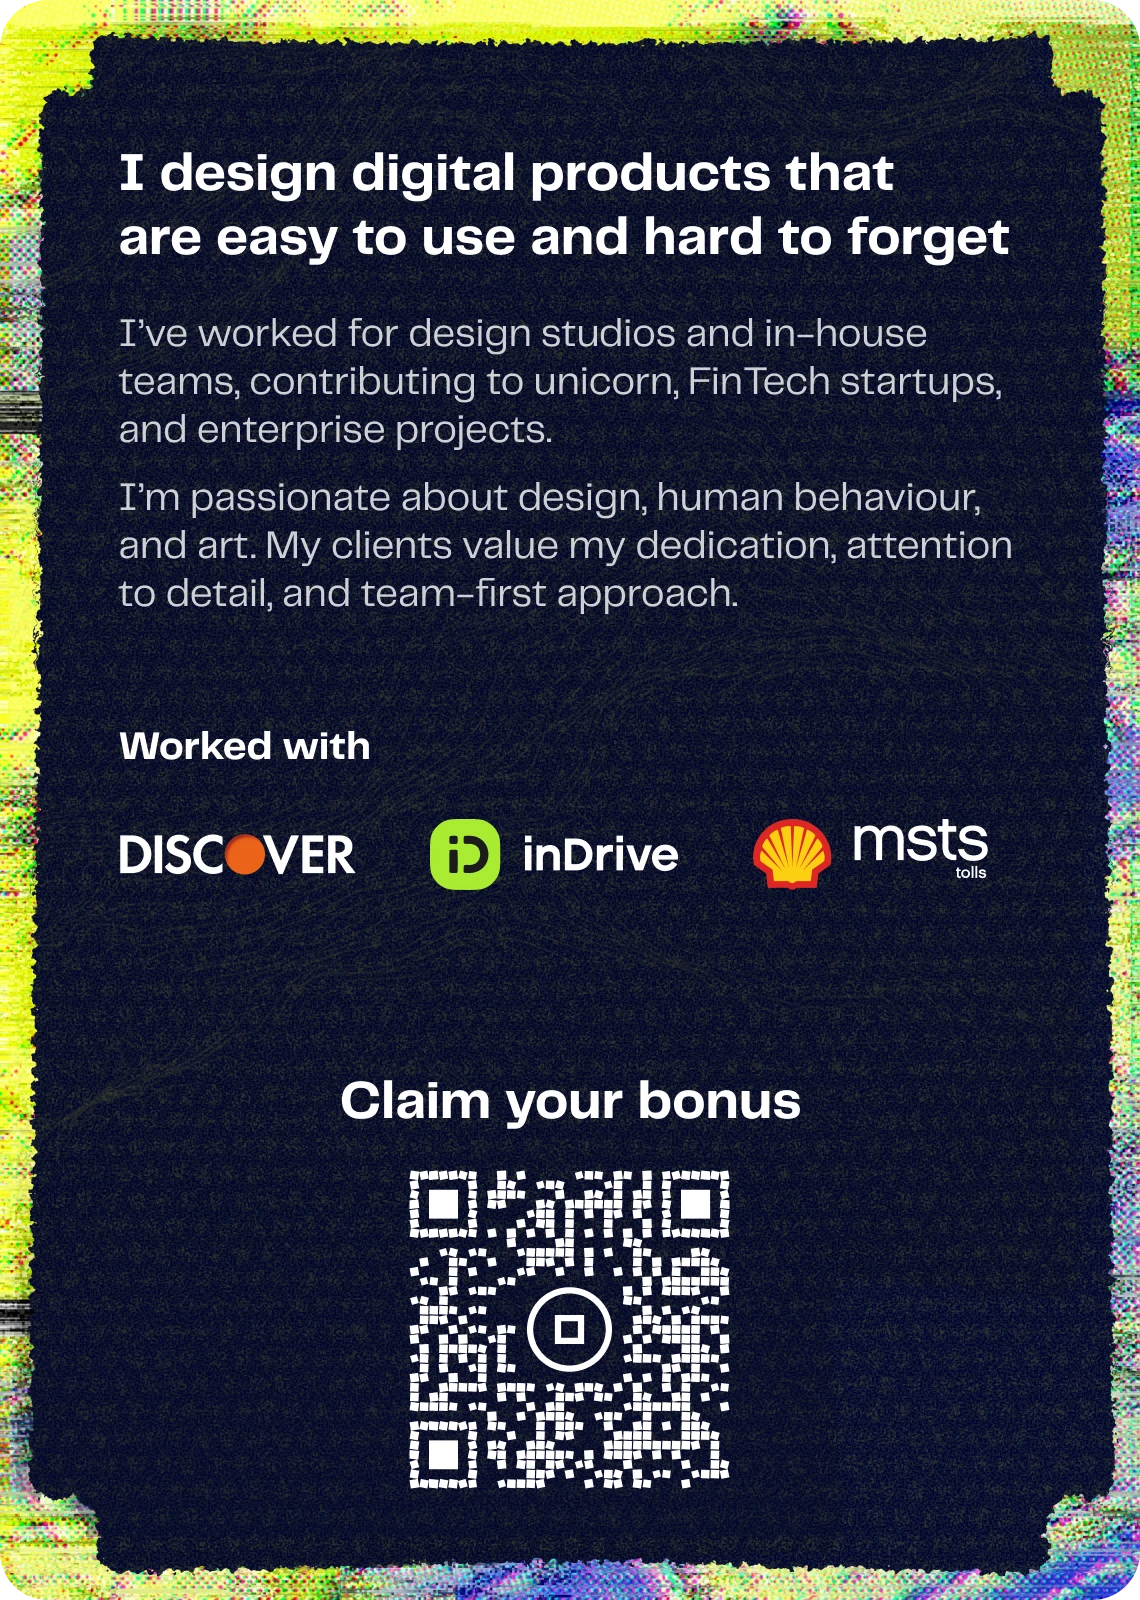
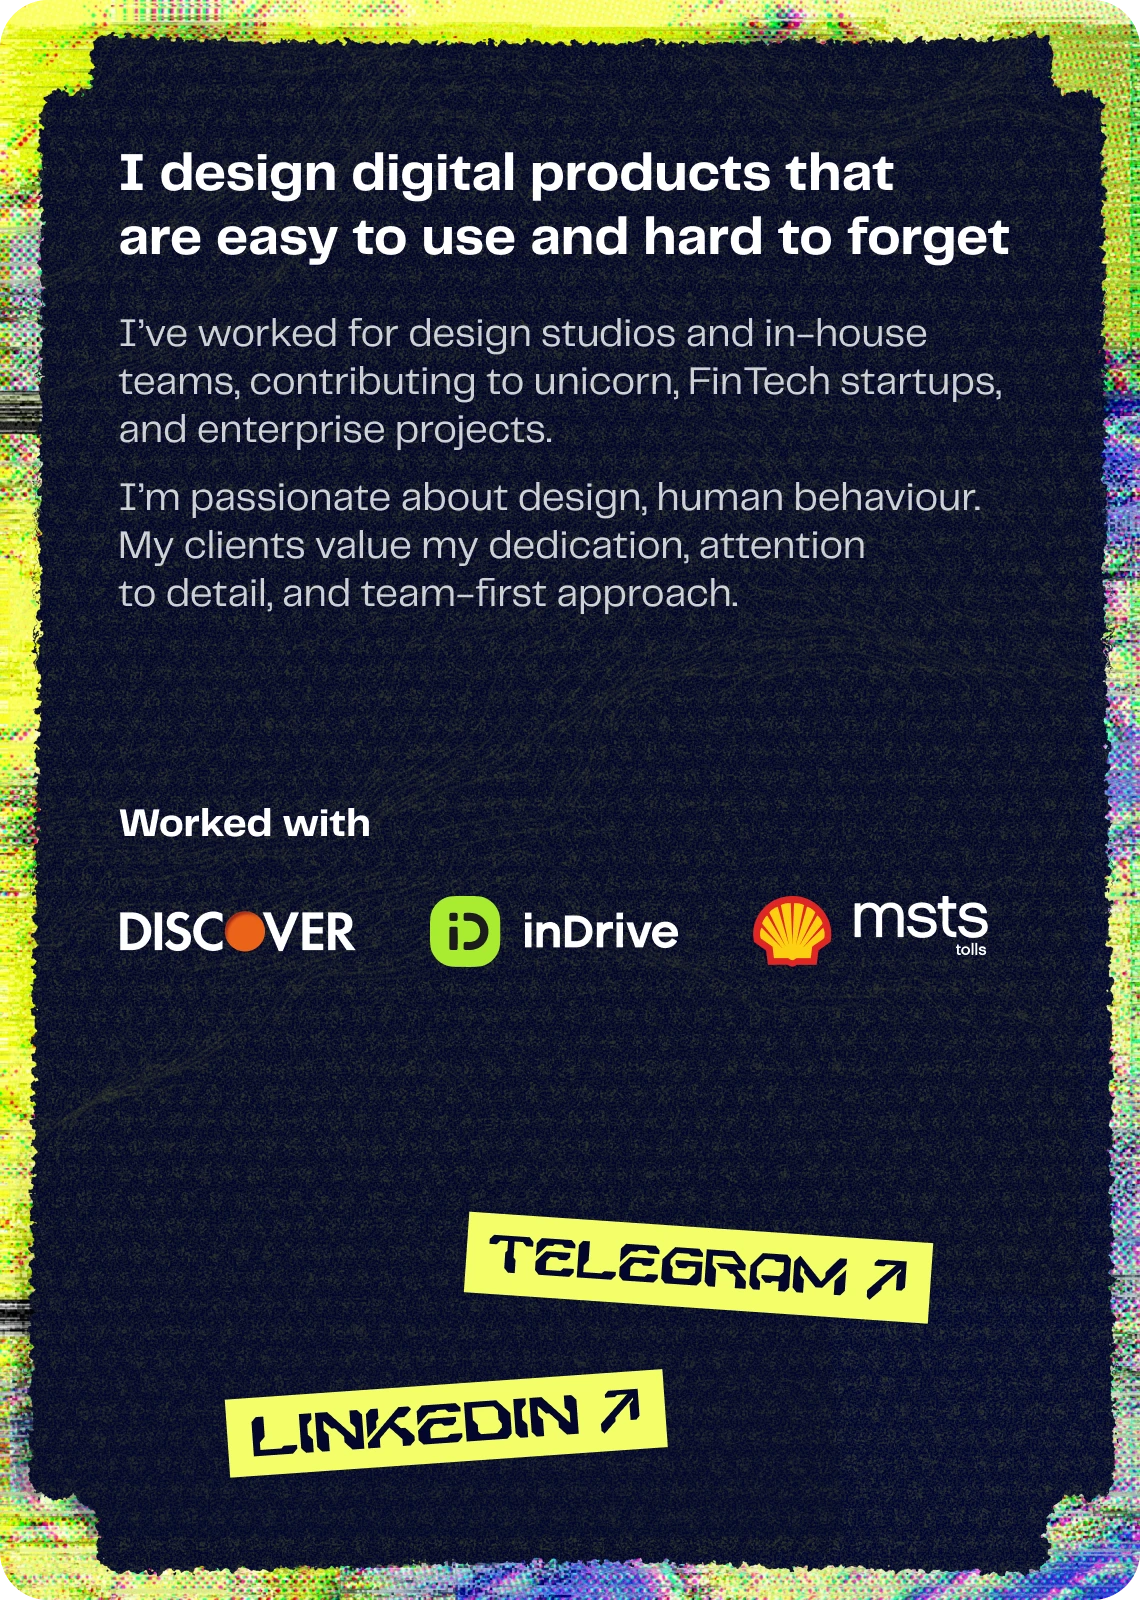
Back side with Telegram/LinkedIn links; one swipe turns at most 180°
- New back artwork from Figma (node 521:2370)
- Tapping the Telegram or LinkedIn sticker opens it in a new tab
  (BACK_LINKS); the cursor turns into a pointer over them on desktop
- A swipe can only turn the card to the next face: dragging stops at
  180° and fast flicks no longer spin a full turn

Claude-Session: https://claude.ai/code/session_0198KEbLBEfZzSgrsfmxZ7Kk

diff --git a/src/main.ts b/src/main.ts
@@ -7,6 +7,7 @@ import {
   CARD_BACK,
   DECALS,
   EXTRAS,
+  BACK_LINKS,
   HOLO,
   HOLO_STRENGTH,
   MOTION,
@@ -193,10 +194,11 @@ DECALS.forEach((d, i) => {
   frontFace.add(mesh);
 });
 
+let backMesh: THREE.Mesh;
 // Back of the card: the back artwork under the same holographic laminate as
 // the front (shared material, so pattern, strength and tilt response match).
 {
-  const back = new THREE.Mesh(face, new THREE.MeshBasicMaterial({ map: backTex, transparent: true, ...layer }));
+  const back = (backMesh = new THREE.Mesh(face, new THREE.MeshBasicMaterial({ map: backTex, transparent: true, ...layer })));
   back.rotation.y = Math.PI;
   back.position.z = -FRONT - 0.1;
   back.renderOrder = ORDER.base;
@@ -309,39 +311,68 @@ if (input.needsMotionPermission) {
 
 // Swipe left or right to spin the card, like flicking a real one. It follows
 // the finger while held, keeps the release speed, then settles on a face.
+// One swipe turns the card at most 180° (front ↔ back), never a full spin.
 let flip = 0;
 let flipTarget = 0;
 let flipVel = 0;
-let drag: { x: number; flip: number; lastX: number; lastT: number; vel: number } | null = null;
+let drag: { x: number; y: number; t: number; flip: number; face: number; lastX: number; lastT: number; vel: number } | null = null;
+let lastTap = false;
 const radPerPx = () => Math.PI / (window.innerWidth * MOTION.swipeHalfTurn);
+
+// Links on the back: find which button (if any) is under the pointer.
+const raycaster = new THREE.Raycaster();
+const ndc = new THREE.Vector2();
+function linkAt(clientX: number, clientY: number) {
+  if (!backFace.visible) return null;
+  ndc.set((clientX / window.innerWidth) * 2 - 1, -(clientY / window.innerHeight) * 2 + 1);
+  raycaster.setFromCamera(ndc, camera);
+  const uv = raycaster.intersectObject(backMesh)[0]?.uv;
+  if (!uv) return null;
+  const x = uv.x * W;
+  const y = (1 - uv.y) * H;
+  return BACK_LINKS.find((l) => x >= l.x && x <= l.x + l.w && y >= l.y && y <= l.y + l.h) ?? null;
+}
 
 canvas.addEventListener("pointerdown", (e) => {
   canvas.setPointerCapture(e.pointerId);
-  drag = { x: e.clientX, flip, lastX: e.clientX, lastT: performance.now(), vel: 0 };
+  const now = performance.now();
+  drag = { x: e.clientX, y: e.clientY, t: now, flip, face: flipTarget, lastX: e.clientX, lastT: now, vel: 0 };
   input.paused = true;
 });
 canvas.addEventListener("pointermove", (e) => {
-  if (!drag) return;
+  if (!drag) {
+    canvas.style.cursor = linkAt(e.clientX, e.clientY) ? "pointer" : "";
+    return;
+  }
   const now = performance.now();
   const dtMs = Math.max(1, now - drag.lastT);
   const v = ((e.clientX - drag.lastX) * radPerPx() * 1000) / dtMs;
   drag.vel = drag.vel * 0.6 + v * 0.4;
   drag.lastX = e.clientX;
   drag.lastT = now;
-  flip = drag.flip + (e.clientX - drag.x) * radPerPx();
+  // Never more than half a turn away from the face the swipe started on.
+  flip = THREE.MathUtils.clamp(drag.flip + (e.clientX - drag.x) * radPerPx(), drag.face - Math.PI, drag.face + Math.PI);
 });
-function release() {
+function release(e: PointerEvent) {
   if (!drag) return;
+  lastTap = Math.hypot(e.clientX - drag.x, e.clientY - drag.y) < 8 && performance.now() - drag.t < 500;
   const vel = performance.now() - drag.lastT > 80 ? 0 : drag.vel;
-  // Where the spin would coast to, snapped to the nearest face (max one extra turn).
-  const coast = flip + THREE.MathUtils.clamp(vel * 0.18, -Math.PI * 1.5, Math.PI * 1.5);
-  flipTarget = Math.round(coast / Math.PI) * Math.PI;
-  flipVel = vel;
+  // Where the spin would coast to, snapped to the nearest face: the same face
+  // or the one next to it, so a swipe flips the card at most 180°.
+  const coast = flip + vel * 0.18;
+  flipTarget = THREE.MathUtils.clamp(Math.round(coast / Math.PI) * Math.PI, drag.face - Math.PI, drag.face + Math.PI);
+  flipVel = THREE.MathUtils.clamp(vel, -12, 12);
   drag = null;
   input.paused = false;
 }
 canvas.addEventListener("pointerup", release);
 canvas.addEventListener("pointercancel", release);
+// A tap (not a swipe) on a back button opens it in a new tab.
+canvas.addEventListener("click", (e) => {
+  if (!lastTap) return;
+  const link = linkAt(e.clientX, e.clientY);
+  if (link) window.open(link.url, "_blank", "noopener");
+});
 
 // ─── Loop ───────────────────────────────────────────────────────────────────
 

diff --git a/src/layout.ts b/src/layout.ts
@@ -64,7 +64,7 @@ export const DECALS: Decal[] = [
 ];
 
 export const CARD_BASE = asset("card/bg-image-green.webp");
-/** Back side artwork (Figma node 521:745, 1140 × 1600). */
+/** Back side artwork (Figma node 521:2370, 1140 × 1600). */
 export const CARD_BACK = asset("card/back.webp");
 /**
  * Holographic laminate patterns. Only HOLO is shown; the others are kept for
@@ -80,6 +80,15 @@ export const HOLO = HOLO_PATTERNS.atoms;
 /** Laminate strength: 1 = full effect as first built, 0 = off. */
 export const HOLO_STRENGTH = 0.2;
 export const PAGE_BG = asset("website-bg.png");
+
+/**
+ * Tappable buttons on the back artwork (card px, top-left origin). Measured
+ * from the yellow stickers in the export; they open in a new tab.
+ */
+export const BACK_LINKS = [
+  { name: "Telegram", url: "https://tglink.ru/r_youlife", x: 464, y: 1212, w: 468, h: 110 },
+  { name: "LinkedIn", url: "https://www.linkedin.com/in/ruslan-iulaev/", x: 225, y: 1369, w: 441, h: 107 },
+];
 
 /**
  * The page is laid out like the Figma mockup: website-bg.png (1565 × 2866) is
@@ -106,7 +115,7 @@ export const MOTION = {
    * scene; 0.5 = half, so they move half as far). Was 1.
    */
   extrasFollow: 0.5,
-  /** Swipe distance, as a fraction of screen width, for a half turn (front → back). */
+  /** Swipe distance, as a fraction of screen width, for a half turn (front → back). One swipe turns at most 180°. */
   swipeHalfTurn: 0.55,
 };
 

diff --git a/README.md b/README.md
@@ -28,9 +28,10 @@ npm run dev
   and tilt together with the card as one scene (movement comes only from real depth)
   (`public/extras/`).
 - **Back**: `public/card/back.webp` (`CARD_BACK`), under the same holographic laminate as the front.
+  The Telegram and LinkedIn stickers are tappable (`BACK_LINKS`) and open in a new tab.
 - **Input**: cursor on desktop, gyroscope on phones (iOS asks via an
   "Enable motion" button). With no input the card holds still. Swipe (or drag)
-  left/right to spin it. All motion limits live in `MOTION` in `src/layout.ts`.
+  left/right to spin it (at most 180° per swipe). All motion limits live in `MOTION` in `src/layout.ts`.
 
 ## Hosting
 
